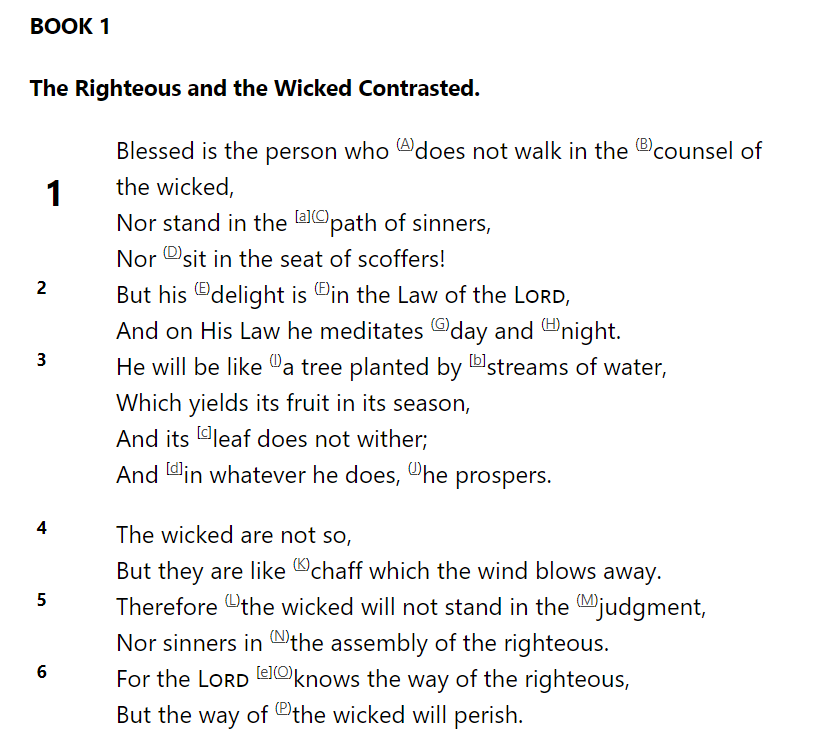
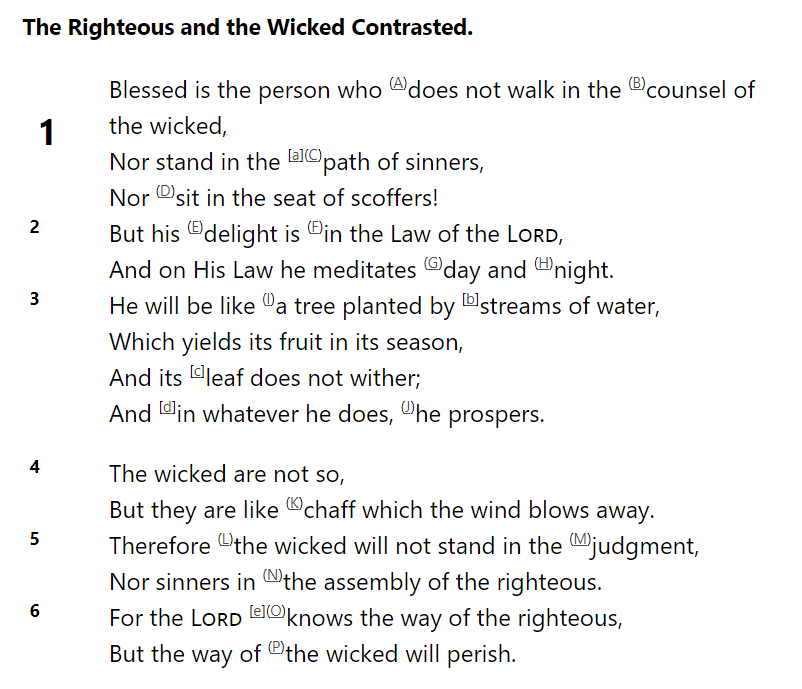
page 8

diff --git a/index.html b/index.html
@@ -49,7 +49,7 @@
 						<img src="img/page_3.png" style="height: 680px; width: 1143px; margin: 0 auto 4rem auto; background: transparent;"	class="demo-logo">
 					</section>
 				</section>
-				
+
 				<section>
 					<section data-transition="slide" data-background="#d4eef4" data-background-transition="zoom">
 						<img src="img/page_4.png" style="height: 808px; width: 619px; margin: 0 auto 4rem auto; background: transparent;"
@@ -71,7 +71,7 @@
 
 				<section>
 					<section data-transition="slide" data-background="#d4eef4" data-background-transition="zoom">
-						<img src="img/page_8.png" style="height: 755px; width: 816px; margin: 0 auto 4rem auto; background: transparent;"
+						<img src="img/page_8.png" style="height: 689px; width: 802px; margin: 0 auto 4rem auto; background: transparent;"
 							class="demo-logo">
 					</section>
 					<section data-transition="slide" data-background="#d4eef4" data-background-transition="zoom">
